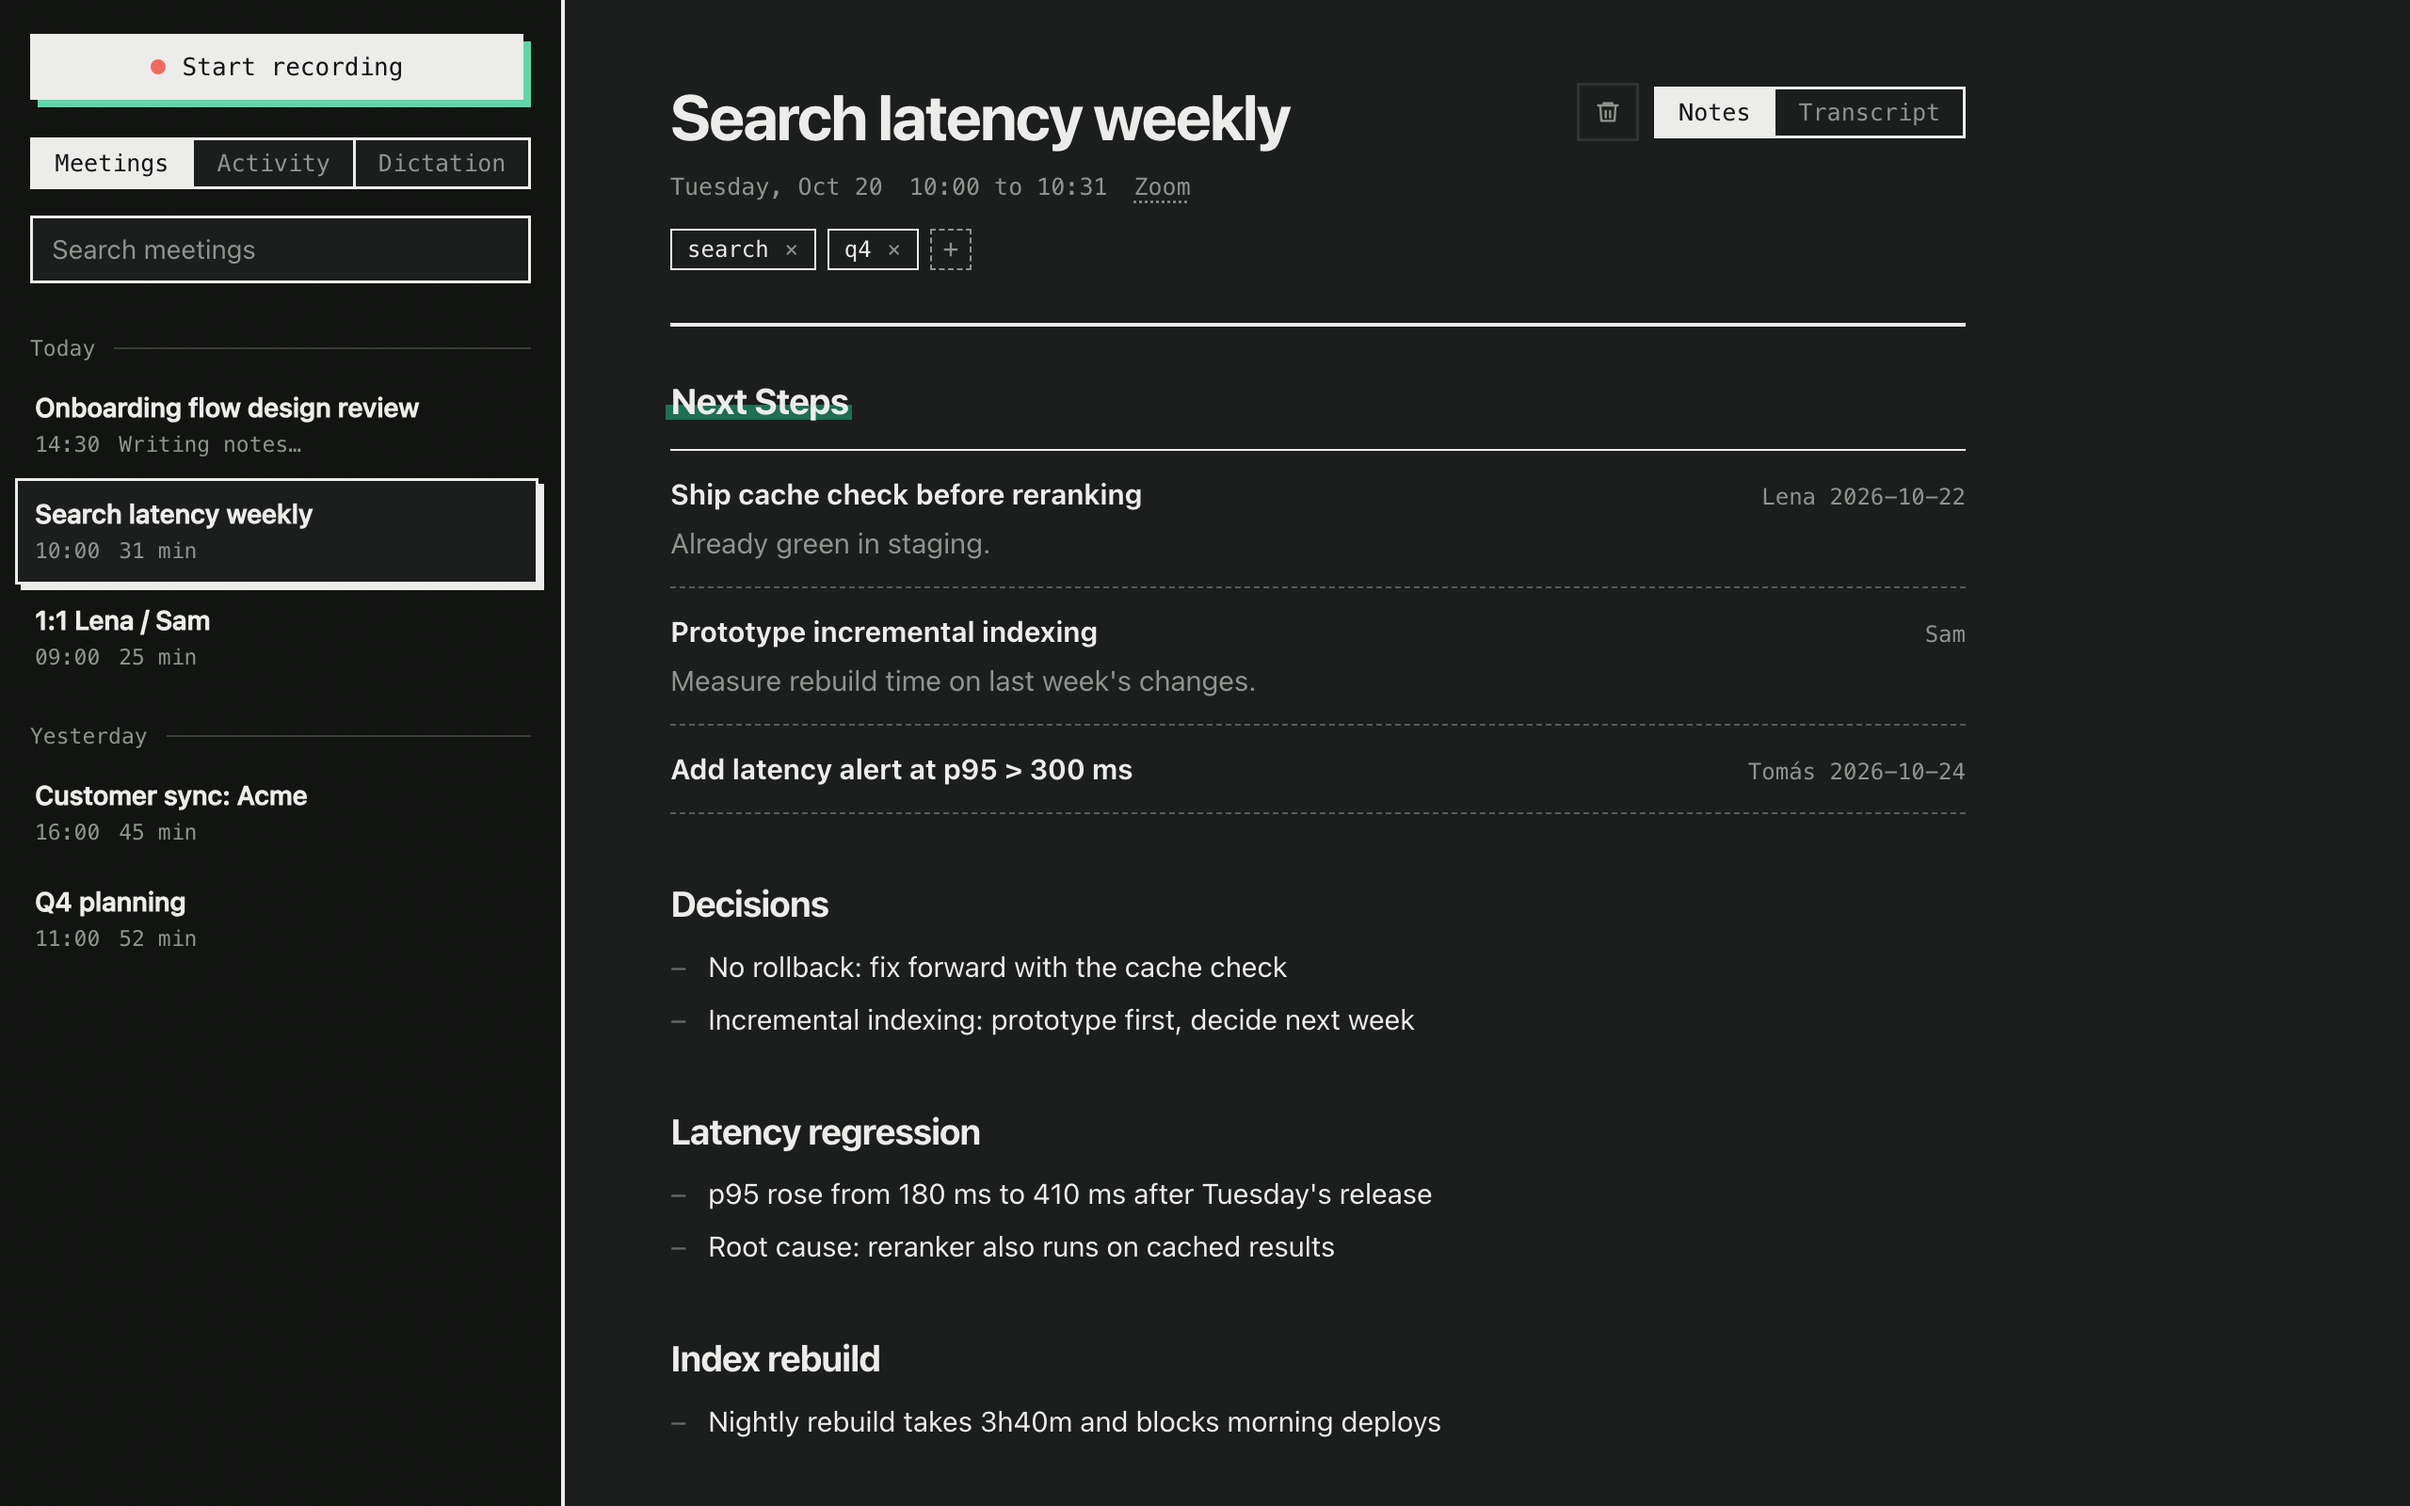
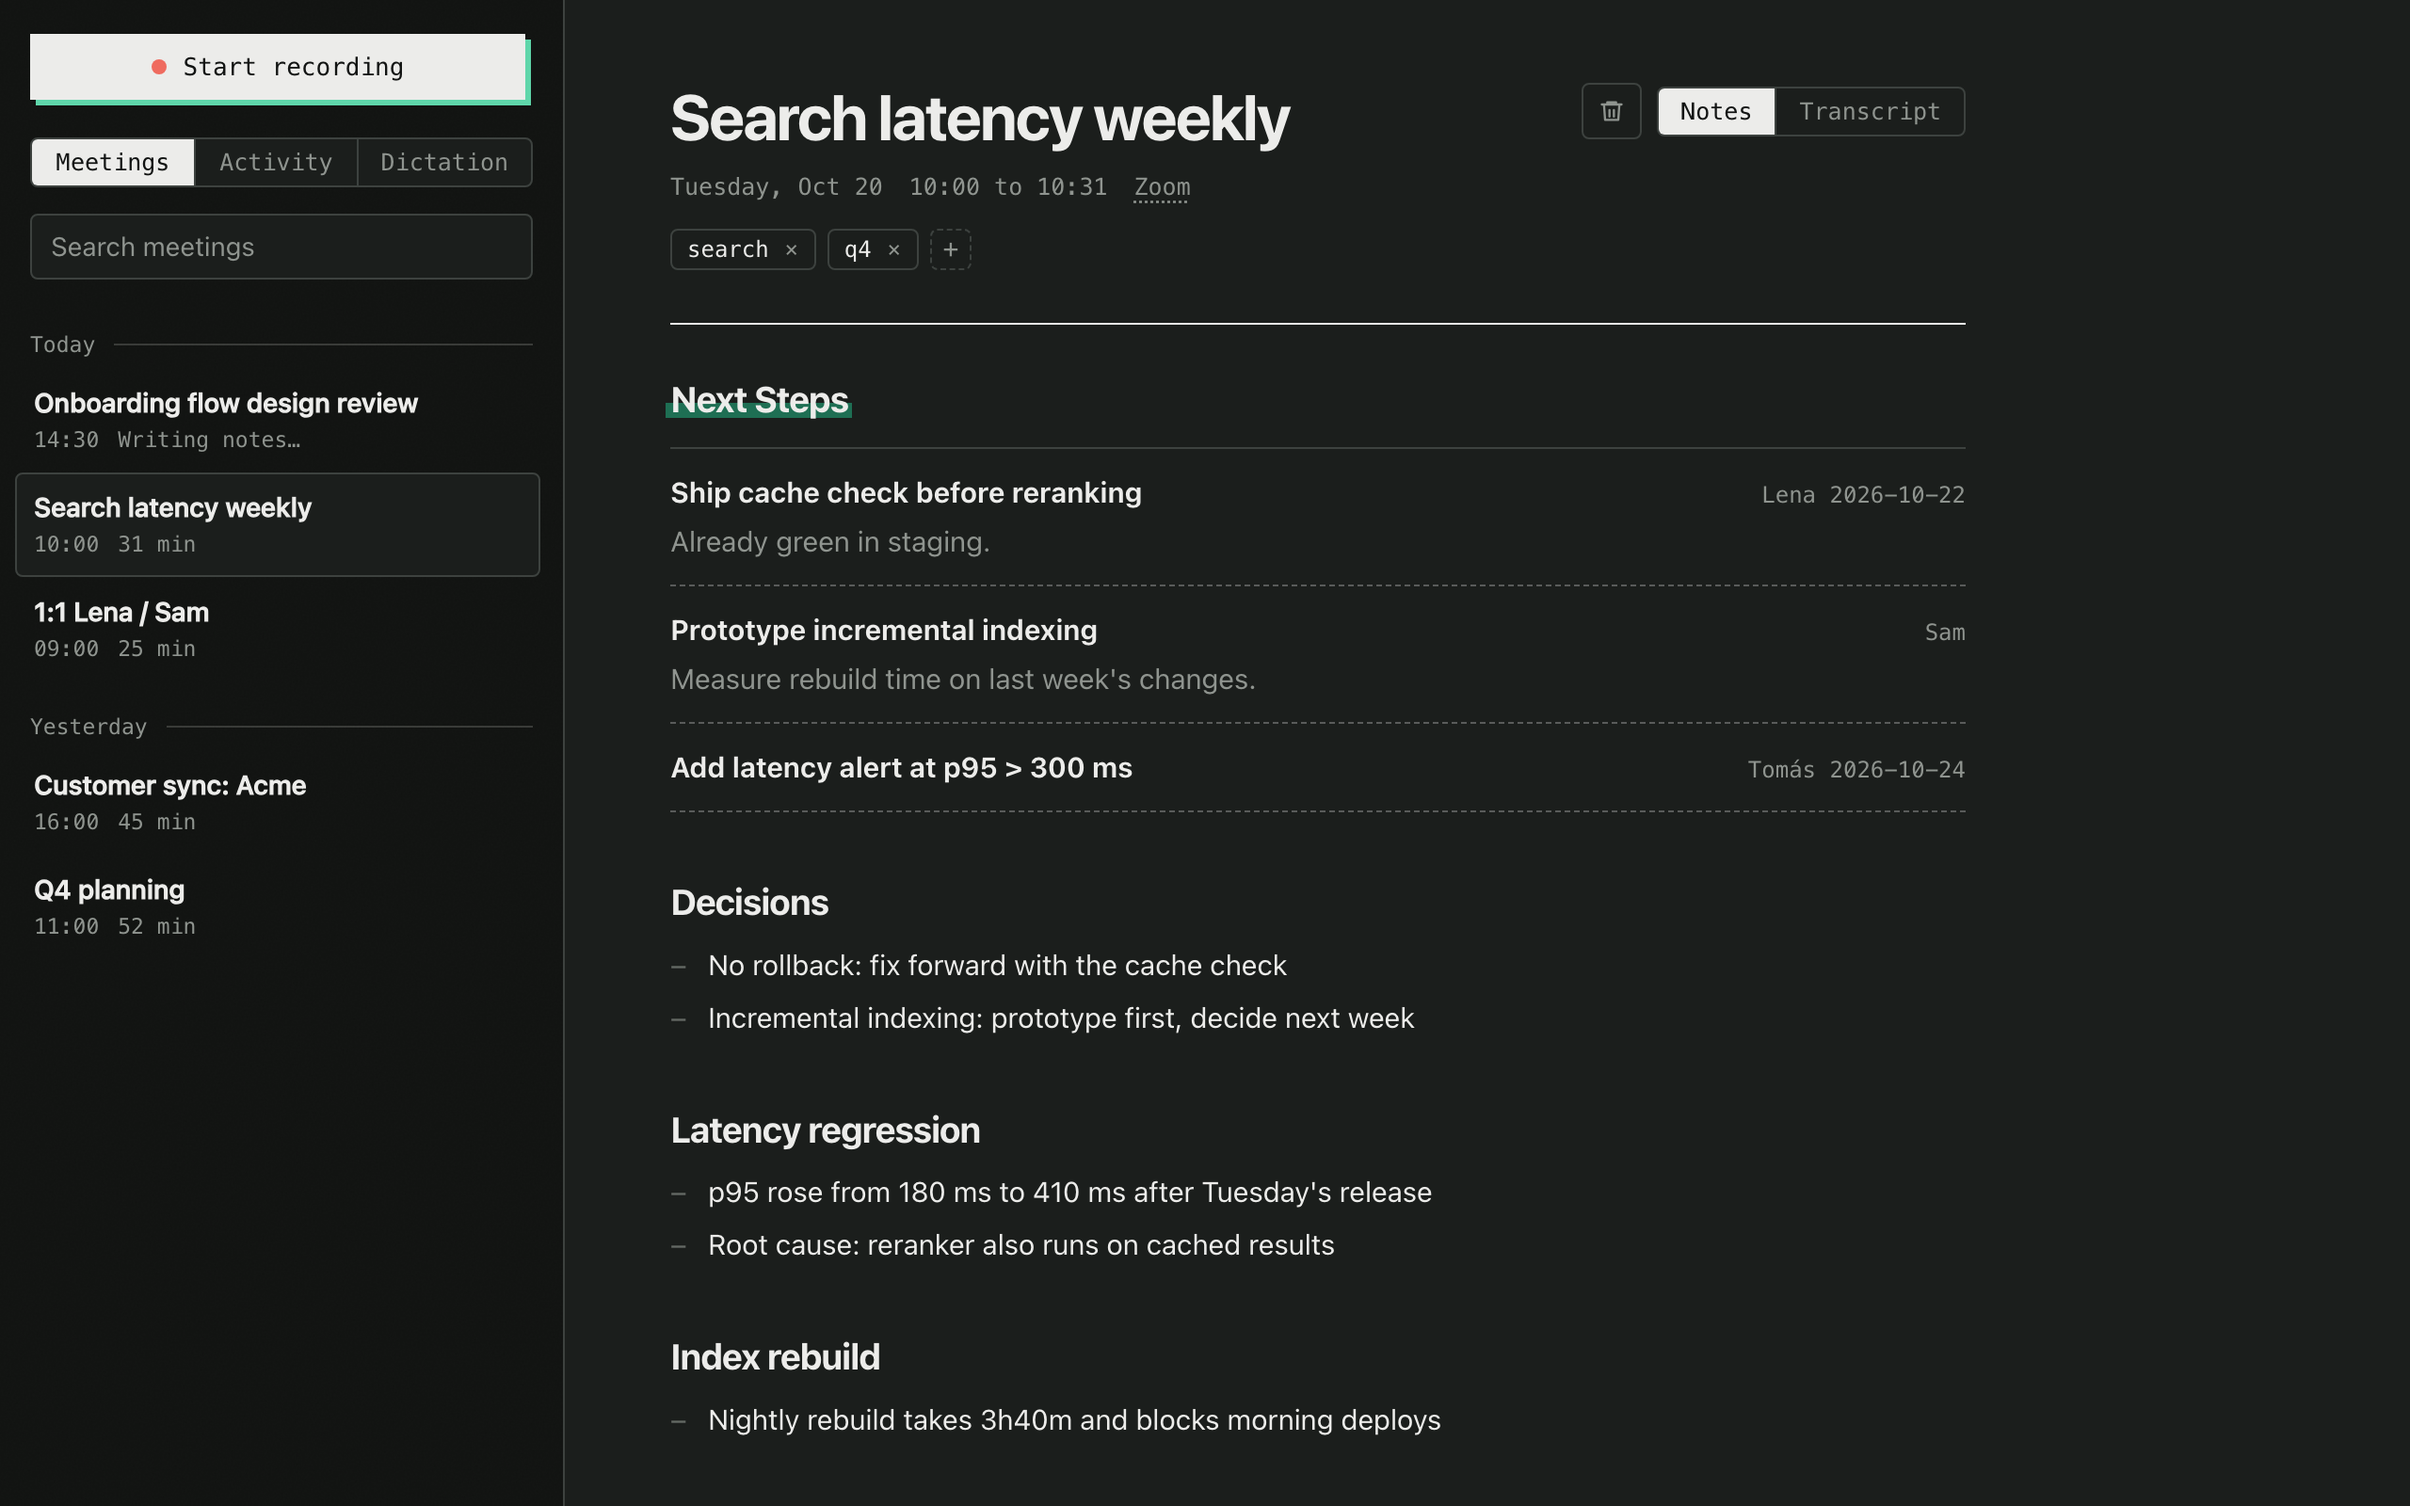
Calmer controls, and the Get started screen in the same look
Thin soft borders and a small radius instead of ink frames; the only hard
shadow left is on the record button. Get started: buttons keep their width,
passed checks are green.

diff --git a/src/notes.html b/src/notes.html
@@ -5,7 +5,7 @@
 <meta name="viewport" content="width=device-width, initial-scale=1">
 <title>merkwerk</title>
 <style>
-  /* Same paper, ink and mint as the merkwerk website: square corners, ink rules, hard offset shadows. */
+  /* Same paper, ink and mint as the merkwerk website: mono labels, one hard shadow on the record button. */
   :root {
     color-scheme: light dark;
     --bg: #fdfcf9;
@@ -15,6 +15,8 @@
     --faint: #a09d92;
     --line: #dad5c8;
     --ink: #121413;
+    /* borders of controls */
+    --edge: #bdb7a8;
     --hover: #dfd9cb;
     --accent: #1f8a66;
     --mint: #5fd6aa;
@@ -37,6 +39,7 @@
       --faint: #646964;
       --line: #2e3330;
       --ink: #ececea;
+      --edge: #3d423f;
       --hover: #222624;
       --accent: #5fd6aa;
       --hl: rgba(31, 138, 102, .75);
@@ -56,11 +59,11 @@
     display: grid; grid-template-columns: 300px 1fr;
   }
   @media (max-width: 720px) { body { grid-template-columns: 1fr; } aside { display: none; } }
-  button { border-radius: 0; }
+  button, input, textarea { border-radius: 4px; }
 
   /* sidebar */
   aside {
-    background: var(--side); border-right: 2px solid var(--ink);
+    background: var(--side); border-right: 1px solid var(--edge);
     display: flex; flex-direction: column; min-height: 0; height: 100dvh; position: relative; isolation: isolate;
   }
   /* paper grain */
@@ -73,23 +76,23 @@
     display: flex; align-items: center; justify-content: center; gap: 9px;
     width: calc(100% - 36px); margin: 18px 20px 4px 16px; font: 500 13px var(--mono);
     color: var(--on-btn); background: var(--btn); border: 0; padding: 10px 12px; cursor: default;
-    box-shadow: 4px 4px 0 var(--mint);
+    box-shadow: 3px 3px 0 var(--mint); border-radius: 0;
   }
   #rec::before { content: ""; width: 8px; height: 8px; border-radius: 50%; background: var(--rec); }
-  #rec:active { transform: translate(2px, 2px); box-shadow: 2px 2px 0 var(--mint); }
-  #rec.on { background: var(--rec); color: var(--on-accent); box-shadow: 4px 4px 0 var(--ink); }
+  #rec:active { transform: translate(2px, 2px); box-shadow: 1px 1px 0 var(--mint); }
+  #rec.on { background: var(--rec); color: var(--on-accent); box-shadow: none; }
   #rec.on::before { background: currentColor; border-radius: 0; }
   #rec[hidden] { display: none; }
   .tabs { display: grid; grid-template-columns: 1fr 1fr 1fr; margin: 16px 16px 0; }
-  .note { margin: 12px 16px 0; padding: 10px 12px; font-size: 13px; border: 1.5px solid var(--ink); background: var(--bg); }
+  .note { margin: 12px 16px 0; padding: 10px 12px; font-size: 13px; border: 1px solid var(--edge); border-radius: 4px; background: var(--bg); }
   .note button { display: block; margin-top: 8px; }
   .note[hidden] { display: none; }
-  #dict-new { box-shadow: 3px 3px 0 var(--mint); }
-  #blocked { box-shadow: 3px 3px 0 var(--rec); }
-  #notes-off { box-shadow: 3px 3px 0 #d08a1c; }
+  #dict-new { border-color: var(--accent); }
+  #blocked { border-color: var(--rec); }
+  #notes-off { border-color: #d08a1c; }
   /* Get started already covers these */
   body.setup #dict-new, body.setup #notes-off { display: none; }
-  .steps { list-style: none; padding: 0; margin: 32px 0 0; display: grid; gap: 0; border-top: 2px solid var(--ink); }
+  .steps { list-style: none; padding: 0; margin: 32px 0 0; display: grid; gap: 0; border-top: 1px solid var(--ink); }
   .steps li { display: grid; grid-template-columns: 44px 1fr; padding: 20px 0; border-bottom: 1px dashed var(--line); }
   .steps li > * { grid-column: 2; }
   .steps h2 { font-size: 15px; font-weight: 650; letter-spacing: -.01em; margin: 0 0 10px; display: contents; }
@@ -101,7 +104,7 @@
   .ok, .steps p.ok { color: var(--accent); font-weight: 500; }
   .keyrow { display: flex; gap: 10px; align-items: center; flex-wrap: wrap; }
   .combo { display: inline-flex; gap: 4px; }
-  .combo kbd { font: 15px var(--sans); color: var(--text); padding: 3px 9px; border: 1.5px solid var(--ink); box-shadow: 2px 2px 0 var(--ink); margin-right: 2px; }
+  .combo kbd { font: 15px var(--sans); color: var(--text); padding: 3px 9px; border: 1px solid var(--edge); border-bottom-width: 2px; border-radius: 4px; }
   .capturing { color: var(--accent); font-weight: 500; animation: pulse 1.2s ease-in-out infinite; }
   @keyframes pulse { 50% { opacity: .45; } }
   .err { color: var(--rec) !important; }
@@ -110,9 +113,9 @@
     width: fit-content;
   }
   .act:active { transform: translate(1px, 1px); }
-  #try { width: 100%; min-height: 72px; font: inherit; color: var(--text); background: var(--bg); border: 1.5px solid var(--ink);
-    border-radius: 0; padding: 8px 10px; outline: none; resize: vertical; }
-  #try:focus { box-shadow: 3px 3px 0 var(--mint); }
+  #try { width: 100%; min-height: 72px; font: inherit; color: var(--text); background: var(--bg); border: 1px solid var(--edge);
+    padding: 8px 10px; outline: none; resize: vertical; }
+  #try:focus { border-color: var(--ink); }
   .history { margin-top: 40px; }
   .history .day { padding-left: 0; padding-right: 0; }
   .history h2 { font-size: 15px; font-weight: 650; letter-spacing: -.01em; margin: 0; }
@@ -122,20 +125,20 @@
   .sr { position: absolute; width: 1px; height: 1px; overflow: hidden; clip: rect(0 0 0 0); }
   input[type=search] {
     width: 100%; font: inherit; color: var(--text);
-    background: var(--bg); border: 1.5px solid var(--ink); border-radius: 0;
+    background: var(--bg); border: 1px solid var(--edge);
     padding: 6px 10px; outline: none; -webkit-appearance: none; appearance: none;
   }
   input[type=search]::placeholder { color: var(--muted); }
-  input[type=search]:focus { box-shadow: 3px 3px 0 var(--mint); }
+  input[type=search]:focus { border-color: var(--ink); }
   nav { overflow-y: auto; padding: 0 12px 24px 8px; flex: 1; }
   .day { display: flex; align-items: center; gap: 10px; color: var(--muted); font: 11.5px var(--mono); padding: 18px 4px 6px 8px; }
   .day::after { content: ""; flex: 1; border-top: 1px solid color-mix(in srgb, var(--ink) 18%, transparent); }
   .row {
-    display: block; width: 100%; text-align: left; border: 1.5px solid transparent; background: none; color: inherit;
+    display: block; width: 100%; text-align: left; border: 1px solid transparent; background: none; color: inherit;
     font: inherit; padding: 7px 9px; cursor: default;
   }
   .row:hover { background: var(--hover); }
-  .row[aria-current=true] { background: var(--bg); border-color: var(--ink); box-shadow: 3px 3px 0 var(--ink); }
+  .row[aria-current=true] { background: var(--bg); border-color: var(--edge); }
   .row .t { display: block; font-weight: 550; letter-spacing: -.005em; white-space: nowrap; overflow: hidden; text-overflow: ellipsis; }
   .row .m { display: block; color: var(--muted); font: 11.5px/1.6 var(--mono); }
   .row .m.live { color: var(--rec); }
@@ -171,38 +174,38 @@
   .tags { display: flex; flex-wrap: wrap; gap: 6px; align-items: center; margin-top: 12px; }
   .tag {
     display: inline-flex; align-items: center; gap: 2px; font: 12px var(--mono); color: var(--text);
-    border: 1px solid var(--ink); padding: 0 2px 0 8px;
+    border: 1px solid var(--edge); border-radius: 4px; padding: 0 2px 0 8px;
   }
   .tag button, .tags .add {
     font: inherit; color: var(--muted); background: none; border: 0; cursor: default;
     width: 20px; height: 20px; padding: 0; line-height: 20px;
   }
   .tag button:hover, .tags .add:hover { color: var(--text); background: var(--hover); }
-  .tags .add { border: 1px dashed var(--muted); font: 14px var(--mono); width: 22px; height: 22px; line-height: 20px; }
+  .tags .add { border: 1px dashed var(--edge); font: 14px var(--mono); width: 22px; height: 22px; line-height: 20px; }
   .tags input {
     font: 12px var(--mono); color: var(--text); background: var(--bg); width: 120px; height: 22px;
-    border: 1px solid var(--ink); border-radius: 0; padding: 0 8px; outline: none; box-shadow: 2px 2px 0 var(--mint);
+    border: 1px solid var(--ink); padding: 0 8px; outline: none;
   }
 
-  .seg { display: inline-grid; grid-auto-flow: column; border: 1.5px solid var(--ink); background: var(--bg); }
+  .seg { display: inline-grid; grid-auto-flow: column; border: 1px solid var(--edge); border-radius: 4px; overflow: hidden; background: var(--bg); }
   .seg button {
     font: 12.5px var(--mono); color: var(--muted); background: none; border: 0;
-    padding: 5px 12px; cursor: default;
+    padding: 5px 12px; cursor: default; border-radius: 0;
   }
-  .seg button + button { border-left: 1.5px solid var(--ink); }
+  .seg button + button { border-left: 1px solid var(--edge); }
   .seg button:hover { color: var(--text); }
   .seg button[aria-pressed=true] { background: var(--btn); color: var(--on-btn); }
   .tools { display: flex; gap: 8px; align-items: center; }
   .copy {
     font: 12.5px var(--mono); color: var(--muted); background: none; cursor: default;
-    border: 1.5px solid var(--line); padding: 5px 12px;
+    border: 1px solid var(--edge); padding: 5px 12px;
   }
   .copy:hover { color: var(--text); border-color: var(--ink); }
   .copy:active { transform: translate(1px, 1px); }
   .copy.danger:hover, .copy.armed { color: var(--rec); border-color: var(--rec); }
   .copy.icon { display: inline-flex; align-items: center; padding: 7px 8px; }
 
-  .body { margin-top: 28px; padding-top: 28px; border-top: 2px solid var(--ink); }
+  .body { margin-top: 28px; padding-top: 28px; border-top: 1px solid var(--ink); }
   @media (prefers-reduced-motion: no-preference) {
     .body.anim { animation: in 160ms cubic-bezier(0.16, 1, 0.3, 1); }
     @keyframes in { from { opacity: 0; transform: translateY(4px); } }
@@ -226,7 +229,7 @@
   .notes a { color: inherit; text-decoration-color: var(--accent); text-underline-offset: 3px; }
   /* Next steps: a ledger, task on the left, owner and date on the right. The heading is highlighted. */
   .notes .nx { background: linear-gradient(transparent 58%, var(--hl) 58%, var(--hl) 94%, transparent 94%); padding: 0 .12em; margin-left: -.12em; }
-  .notes .next { border-top: 1px solid var(--ink); margin: 14px 0 0; }
+  .notes .next { border-top: 1px solid var(--edge); margin: 14px 0 0; }
   .notes .next > li { padding: 11px 0; margin: 0; border-bottom: 1px dashed color-mix(in srgb, var(--ink) 30%, transparent); }
   .notes .next > li::before { content: none; }
   .notes .next .step { display: flex; justify-content: space-between; align-items: baseline; gap: 20px; }
@@ -254,18 +257,18 @@
   .chips { display: flex; flex-wrap: wrap; gap: 8px; margin-bottom: 12px; }
   .chips button {
     font: 12.5px var(--mono); color: var(--text); background: none;
-    border: 1px solid var(--ink); padding: 4px 10px; cursor: default;
+    border: 1px solid var(--edge); padding: 4px 10px; cursor: default;
   }
   .chips button:hover { background: var(--hl); }
-  .ask { display: grid; grid-template-columns: 1fr auto; gap: 0; margin: 16px 4px 0 0; border: 1.5px solid var(--ink); }
-  .ask:focus-within { box-shadow: 4px 4px 0 var(--mint); }
+  .ask { display: grid; grid-template-columns: 1fr auto; gap: 0; margin: 16px 0 0; border: 1px solid var(--edge); border-radius: 4px; overflow: hidden; }
+  .ask:focus-within { border-color: var(--ink); }
   .ask textarea {
     font: inherit; color: var(--text); background: var(--bg); resize: none; height: 40px;
     border: 0; border-radius: 0; padding: 9px 12px; outline: none;
   }
   .ask button {
     font: 500 13px var(--mono); color: var(--on-btn); background: var(--btn); border: 0;
-    padding: 0 18px; cursor: default;
+    padding: 0 18px; cursor: default; border-radius: 0;
   }
   .ask button:disabled { opacity: 0.5; }
   .empty { color: var(--muted); max-width: 52ch; font-size: 14px; }
